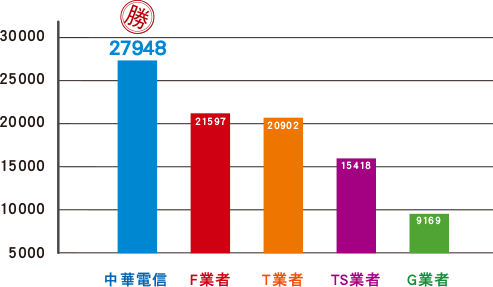
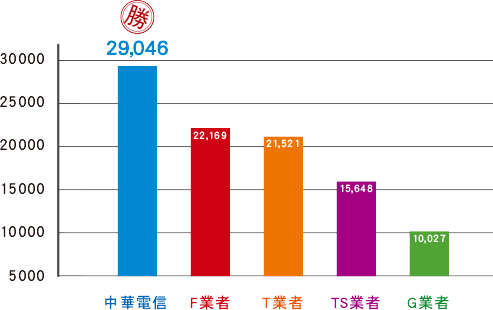
大4G優勢
主視覺更換
日期修改
基地台圖表更換

diff --git a/demo/advantage/index.html b/demo/advantage/index.html
@@ -1458,7 +1458,7 @@ height="0" width="0" style="display:none;visibility:hidden"></iframe></noscript>
 			</ul>
 			<ul class="txt">
 				<li><h5 class="f-col f-view">基地台最多</h5></li>
-				<li><p class="f-col f-view">根據NCC網站公告，截至2019/3/31，<span>中華電信基地台數量為業界最多</span>，偏遠山區通話不斷線，到哪都能順暢上網，成為出遊的最好幫手。</p></li>
+				<li><p class="f-col f-view">根據NCC網站公告，截至2019/8/31，<span>中華電信基地台數量為業界最多</span>，偏遠山區通話不斷線，到哪都能順暢上網，成為出遊的最好幫手。</p></li>
 			</ul>
 			<ul class="graph">
 				<li><img  class="f-col f-view"src="images/graph_08.png" /></li>
@@ -1476,7 +1476,7 @@ height="0" width="0" style="display:none;visibility:hidden"></iframe></noscript>
 				<li><div class="btn f-col f-view"><a  href="https://www.emome.net/internet_coverage" target="_blank">涵蓋範圍查詢</a></div></li>
 			</ul>
 			<ul>
-				<li class="f-col f-view note">*備註: 1.「涵蓋最廣」係指中華電信已於台、澎、金、馬全部368鄉鎮市區都設有4G基地台提供4G服務；其中，最偏遠的金門縣烏坵鄉離島，目前僅中華電信提供4G服務。2.「基地台最多」係根據通傳會頻率資料庫系統2019/3/31公告，中華電信基地台設備數量最多。3.「頻寬最大」係指中華電信擁有900 + 1800 + 2100 + 2600MHz 四頻段，上下行頻寬共計180MHz，居4G電信業者之冠。</li>
+				<li class="f-col f-view note">*備註: 1.「涵蓋最廣」係指中華電信已於台、澎、金、馬全部368鄉鎮市區都設有4G基地台提供4G服務；其中，最偏遠的金門縣烏坵鄉離島，目前僅中華電信提供4G服務。2.「基地台最多」係根據通傳會頻率資料庫系統2019/8/31公告，中華電信基地台設備數量最多。3.「頻寬最大」係指中華電信擁有900 + 1800 + 2100 + 2600MHz 四頻段，上下行頻寬共計180MHz，居4G電信業者之冠。</li>
 			</ul>
 			<hr/>
 			<h4 class="f-col f-view">技術領先</h4>
